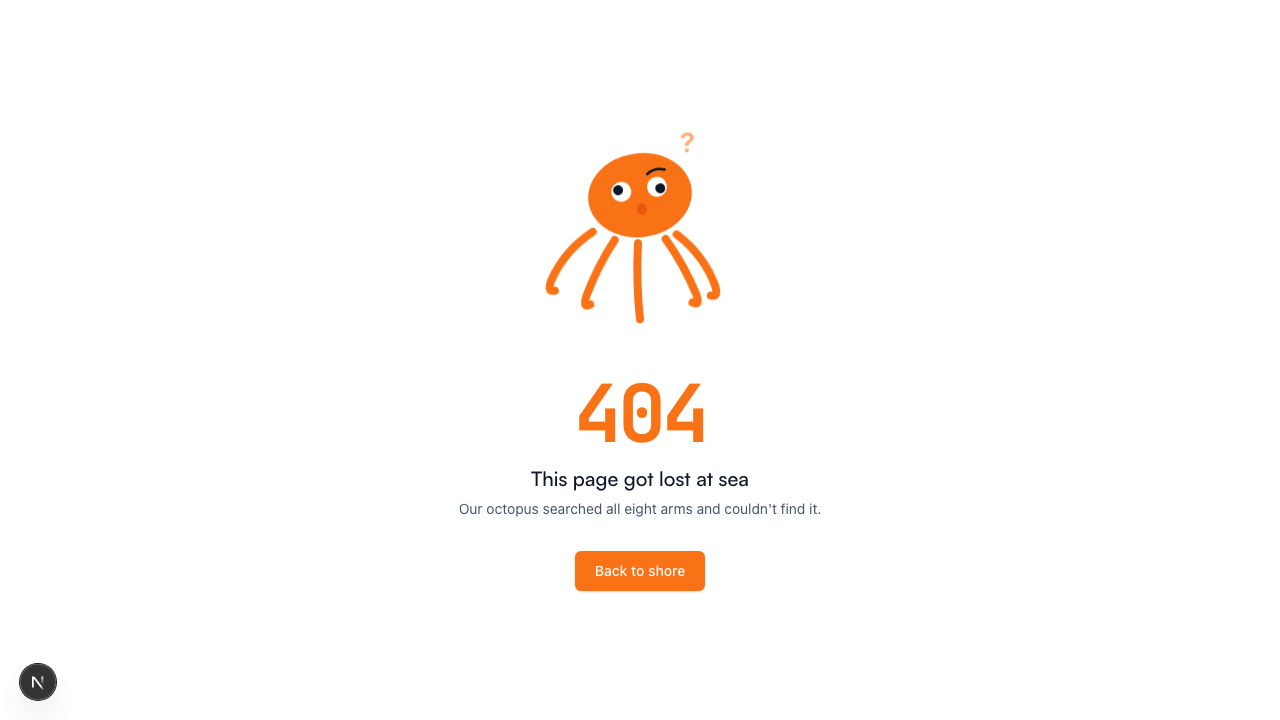
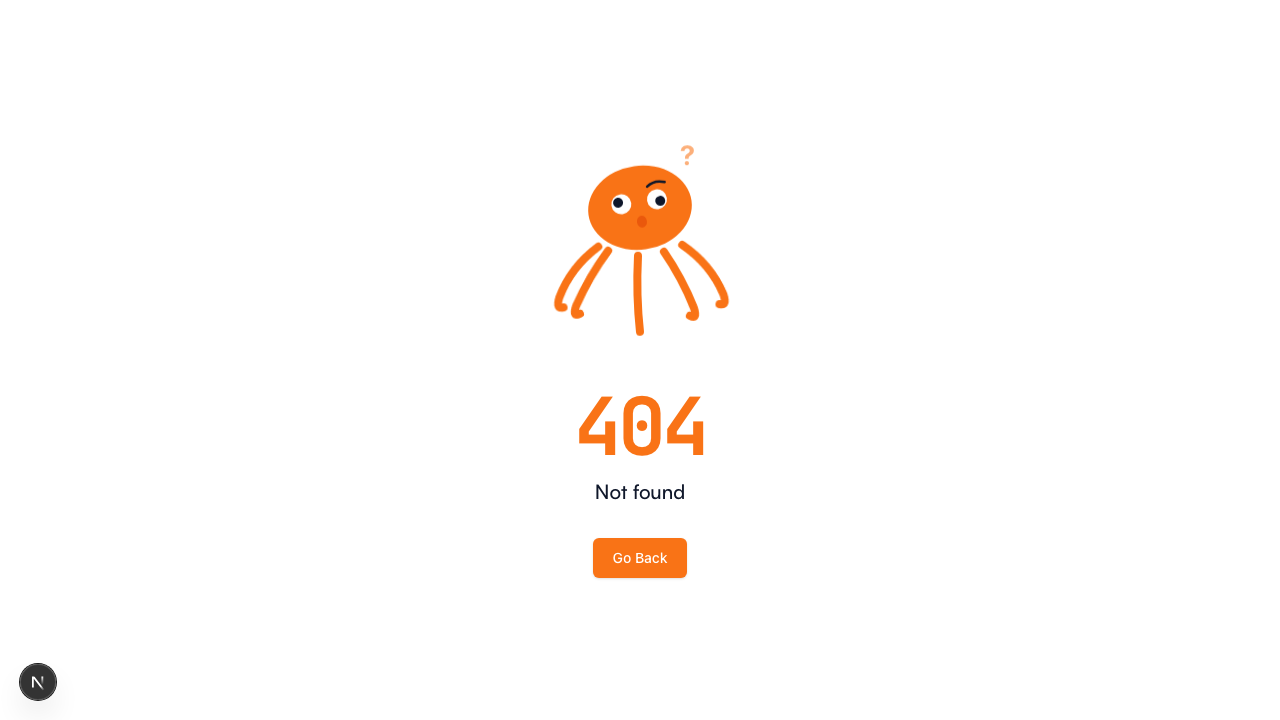
chore: simplify 404 page copy

Changed region(s): [[0.3438, 0.5194, 0.625, 0.825], [0.4062, 0.2139, 0.5938, 0.4583], [0.5312, 0.1833, 0.5625, 0.2139]]

diff --git a/frontend/src/app/not-found.tsx b/frontend/src/app/not-found.tsx
@@ -138,18 +138,14 @@ export default function NotFound() {
       </p>
 
       <p className="mt-3 font-display text-xl font-medium text-foreground">
-        This page got lost at sea
-      </p>
-
-      <p className="mt-1.5 text-sm text-dim">
-        Our octopus searched all eight arms and couldn&apos;t find it.
+        Not found
       </p>
 
       <Link
         href="/"
         className="mt-8 inline-flex h-10 items-center rounded-md bg-brand px-5 text-sm font-medium text-white shadow-sm transition hover:bg-brand-hover"
       >
-        Back to shore
+        Go Back
       </Link>
     </div>
   );
